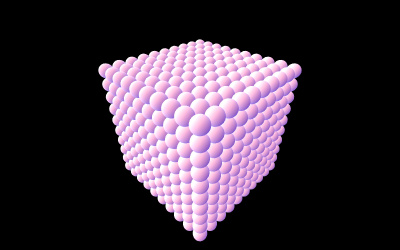
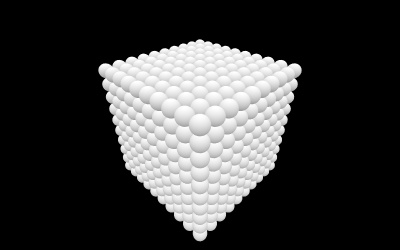
Examples: Clean up webgl_instancing_raycast.html (#23000)
* Clean up

* Updated screenshot

Changed region(s): [[0.24, 0.168, 0.75, 0.98]]

diff --git a/examples/webgl_instancing_raycast.html b/examples/webgl_instancing_raycast.html
@@ -15,7 +15,7 @@
 			import { GUI } from './jsm/libs/lil-gui.module.min.js';
 			import { OrbitControls } from "./jsm/controls/OrbitControls.js";
 
-			let camera, scene, renderer, stats;
+			let camera, scene, renderer, controls, stats;
 
 			let mesh;
 			const amount = parseInt( window.location.search.substr( 1 ) ) || 10;
@@ -25,6 +25,7 @@
 			const mouse = new THREE.Vector2( 1, 1 );
 
 			const color = new THREE.Color();
+			const white = new THREE.Color().setHex( 0xffffff );
 
 			init();
 			animate();
@@ -37,16 +38,12 @@
 
 				scene = new THREE.Scene();
 
-				const light1 = new THREE.HemisphereLight( 0xffffff, 0x000088 );
-				light1.position.set( - 1, 1.5, 1 );
-				scene.add( light1 );
-
-				const light2 = new THREE.HemisphereLight( 0xffffff, 0x880000, 0.5 );
-				light2.position.set( - 1, - 1.5, - 1 );
-				scene.add( light2 );
+				const light = new THREE.HemisphereLight( 0xffffff, 0x888888 );
+				light.position.set( 0, 1, 0 );
+				scene.add( light );
 
 				const geometry = new THREE.IcosahedronGeometry( 0.5, 3 );
-				const material = new THREE.MeshPhongMaterial();
+				const material = new THREE.MeshPhongMaterial( { color: 0xffffff } );
 
 				mesh = new THREE.InstancedMesh( geometry, material, count );
 
@@ -86,7 +83,10 @@
 				renderer.setSize( window.innerWidth, window.innerHeight );
 				document.body.appendChild( renderer.domElement );
 
-				new OrbitControls( camera, renderer.domElement );
+				controls = new OrbitControls( camera, renderer.domElement );
+				controls.enableDamping = true;
+				controls.enableZoom = false;
+				controls.enablePan = false;
 
 				stats = new Stats();
 				document.body.appendChild( stats.dom );
@@ -118,11 +118,7 @@
 
 				requestAnimationFrame( animate );
 
-				render();
-
-			}
-
-			function render() {
+				controls.update();
 
 				raycaster.setFromCamera( mouse, camera );
 
@@ -132,14 +128,27 @@
 
 					const instanceId = intersection[ 0 ].instanceId;
 
-					mesh.setColorAt( instanceId, color.setHex( Math.random() * 0xffffff ) );
-					mesh.instanceColor.needsUpdate = true;
+					mesh.getColorAt( instanceId, color );
+
+					if ( color.equals( white ) ) {
+
+						mesh.setColorAt( instanceId, color.setHex( Math.random() * 0xffffff ) );
+
+						mesh.instanceColor.needsUpdate = true;
+
+					}
 
 				}
 
-				renderer.render( scene, camera );
+				render();
 
 				stats.update();
+
+			}
+
+			function render() {
+
+				renderer.render( scene, camera );
 
 			}
 
